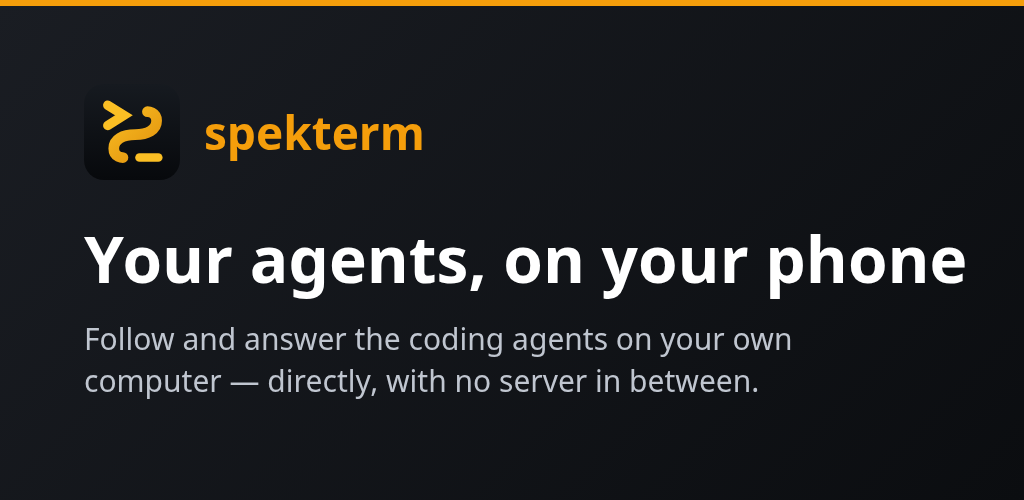
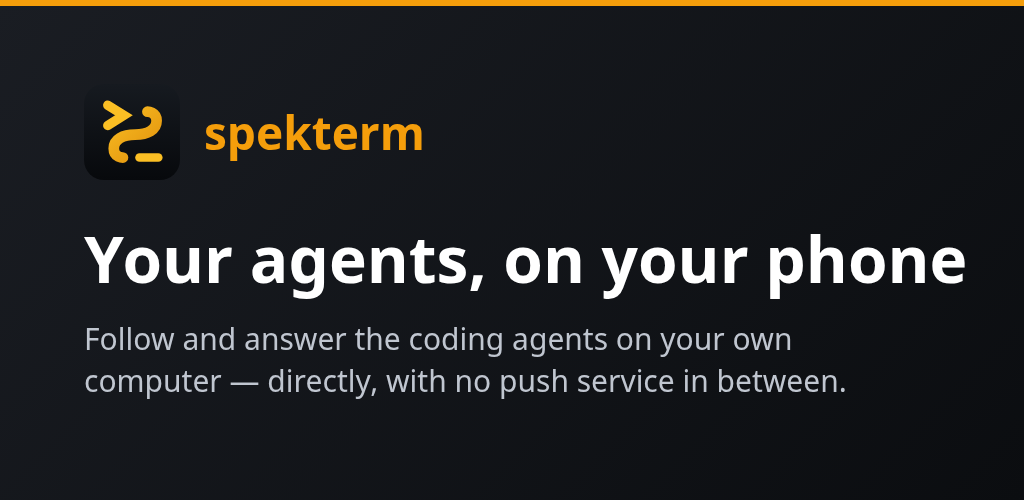
docs(play): the listing and forms for the optional relay
phone-relay 6.2: no server of the developer's; the team's own server may
pass the encrypted connection on; Data safety stays "nothing collected";
Console texts to re-enter with the release.

Claude-Session: https://claude.ai/code/session_01BwLb76fyMJfC7aQq9bnyB8

Changed region(s): [[0.4688, 0.75, 0.8438, 0.78]]

diff --git a/play/source/feature.html b/play/source/feature.html
@@ -27,8 +27,8 @@
 <p id="line"></p>
 <script>
   const texts = {
-    'en-US': ['Your agents, on your phone', 'Follow and answer the coding agents on your own computer\u00a0— directly, with no server in between.'],
-    'zh-TW': ['你的 agent，就在手機上', '直接連到你自己的電腦，掌握並回應 coding agent，不經伺服器。'],
+    'en-US': ['Your agents, on your phone', 'Follow and answer the coding agents on your own computer\u00a0— directly, with no push service in between.'],
+    'zh-TW': ['你的 agent，就在手機上', '直接連到你的電腦，掌握並回應 coding agent，不經推播服務。'],
   }
   const lang = new URLSearchParams(location.search).get('lang') || 'en-US'
   document.documentElement.lang = lang

diff --git a/play/forms.md b/play/forms.md
@@ -69,7 +69,15 @@ Why (help page "Provide information for Google Play's Data safety section", read
 is unreadable by you or anyone other than the sender and recipient" because of end-to-end encryption is not collected; "no
 intermediary, including the developer" may be able to read it. The app's only connection goes to the user's own computer,
 over TLS pinned to that computer's own certificate (`net/Pinning.kt`) — the phone and the user's computer are the two ends,
-with no server of the developer or anyone in between. The connection log leaves the phone only when the user shares it with
+with no server of the developer in between.
+
+Since `phone-relay` (to re-enter in the Console with the release that ships it): when the user's desktop is on a spekterm
+team and its relay setting is on, the same pinned TLS may instead cross the team's own spekterm-server, which splices it to
+the desktop without terminating it — so it stays "unreadable by anyone other than the sender and recipient", and the answer
+stays **No**. What that server can see is metadata of a server the user's team runs and the user's desktop chose, not the
+developer's: the phone's IP address, when and for how long it connects, byte counts each way, and which relay grant it used
+(spekterm-server's protocol section 13.7); the grant's secret, which only lets the phone ask that server for a tunnel to its
+own desktop, is sent to it. The privacy policy (spekterm repository) says so. The connection log leaves the phone only when the user shares it with
 another app from Settings, which is the user giving a file to an app on the phone, not this app sending it. Likewise a
 file the agent sent, which the user opens with another app on the phone (0.2.0), reaches only the app the user chooses. Even an app that
 collects nothing must submit the form and a privacy policy URL; both state that nothing is collected or shared.
@@ -110,7 +118,14 @@ including why the work must start at once and cannot be paused or restarted:
 
   > The app keeps a direct, encrypted connection to the user's own computer running spekterm (same network, Tailscale or a
   > forwarded port) and notifies the user when an AI coding agent there waits for a reply, a choice or a permission. There
-  > is no server in between, so push messaging cannot deliver these; the held connection is the only way. The work must
+  > is no server in between, so push messaging cannot deliver these; the held connection is the only way.
+
+  To re-enter with the release that ships `phone-relay` (the paragraph above stays as entered until then):
+
+  > The app keeps an encrypted connection to the user's own computer running spekterm — directly (same network, Tailscale
+  > or a forwarded port), or, if the user turns it on, through their own team's spekterm-server, which only passes the
+  > encrypted bytes on — and notifies the user when an AI coding agent there waits for a reply, a choice or a permission.
+  > No push service is involved, so push messaging cannot deliver these; the held connection is the only way. The work must
   > start at once and run until the user pauses it: if deferred, the agent sits blocked unseen. An ongoing notification
   > shows it; the user can pause it there.
 

diff --git a/openspec/changes/phone-relay/tasks.md b/openspec/changes/phone-relay/tasks.md
@@ -33,4 +33,4 @@ Needs spekterm's `phone-relay` desktop side running from source (in progress in 
 ## 6. Docs and listing
 
 - [x] 6.1 README, `openspec/config.yaml` ("Fixed decisions"), and the Purpose of `openspec/specs/desktop-connection/spec.md`: direct by default; optionally through the user's own team spekterm-server when the desktop gives a grant, end-to-end encrypted to the desktop; no push. Verify: `grep -rn -i -E "no relay|without a relay" README.md openspec/config.yaml openspec/specs` finds nothing
-- [ ] 6.2 `play/listings/{en-US,zh-TW}` (full and short descriptions), `play/source/feature.html` and the feature graphic re-rendered with `tools/render-play-graphics.sh`, and `play/forms.md`: Data safety keeps "nothing collected" with the reasoning extended (the team server cannot read the desktop's TLS; what it sees — the phone's address, times, byte counts, the grant id — goes to the user's own team's server, chosen by the user's desktop, not to the developer); the foreground-service description reworded; both marked to re-enter in the Play Console at the next release. Verify: `./gradlew test` (the listing-limit tests) passes; `grep -rn -i -E "no server" play` shows only wording that is still true
+- [x] 6.2 `play/listings/{en-US,zh-TW}` (full and short descriptions), `play/source/feature.html` and the feature graphic re-rendered with `tools/render-play-graphics.sh`, and `play/forms.md`: Data safety keeps "nothing collected" with the reasoning extended (the team server cannot read the desktop's TLS; what it sees — the phone's address, times, byte counts, the grant id — goes to the user's own team's server, chosen by the user's desktop, not to the developer); the foreground-service description reworded; both marked to re-enter in the Play Console at the next release. Verify: `./gradlew test` (the listing-limit tests) passes; `grep -rn -i -E "no server" play` shows only wording that is still true
